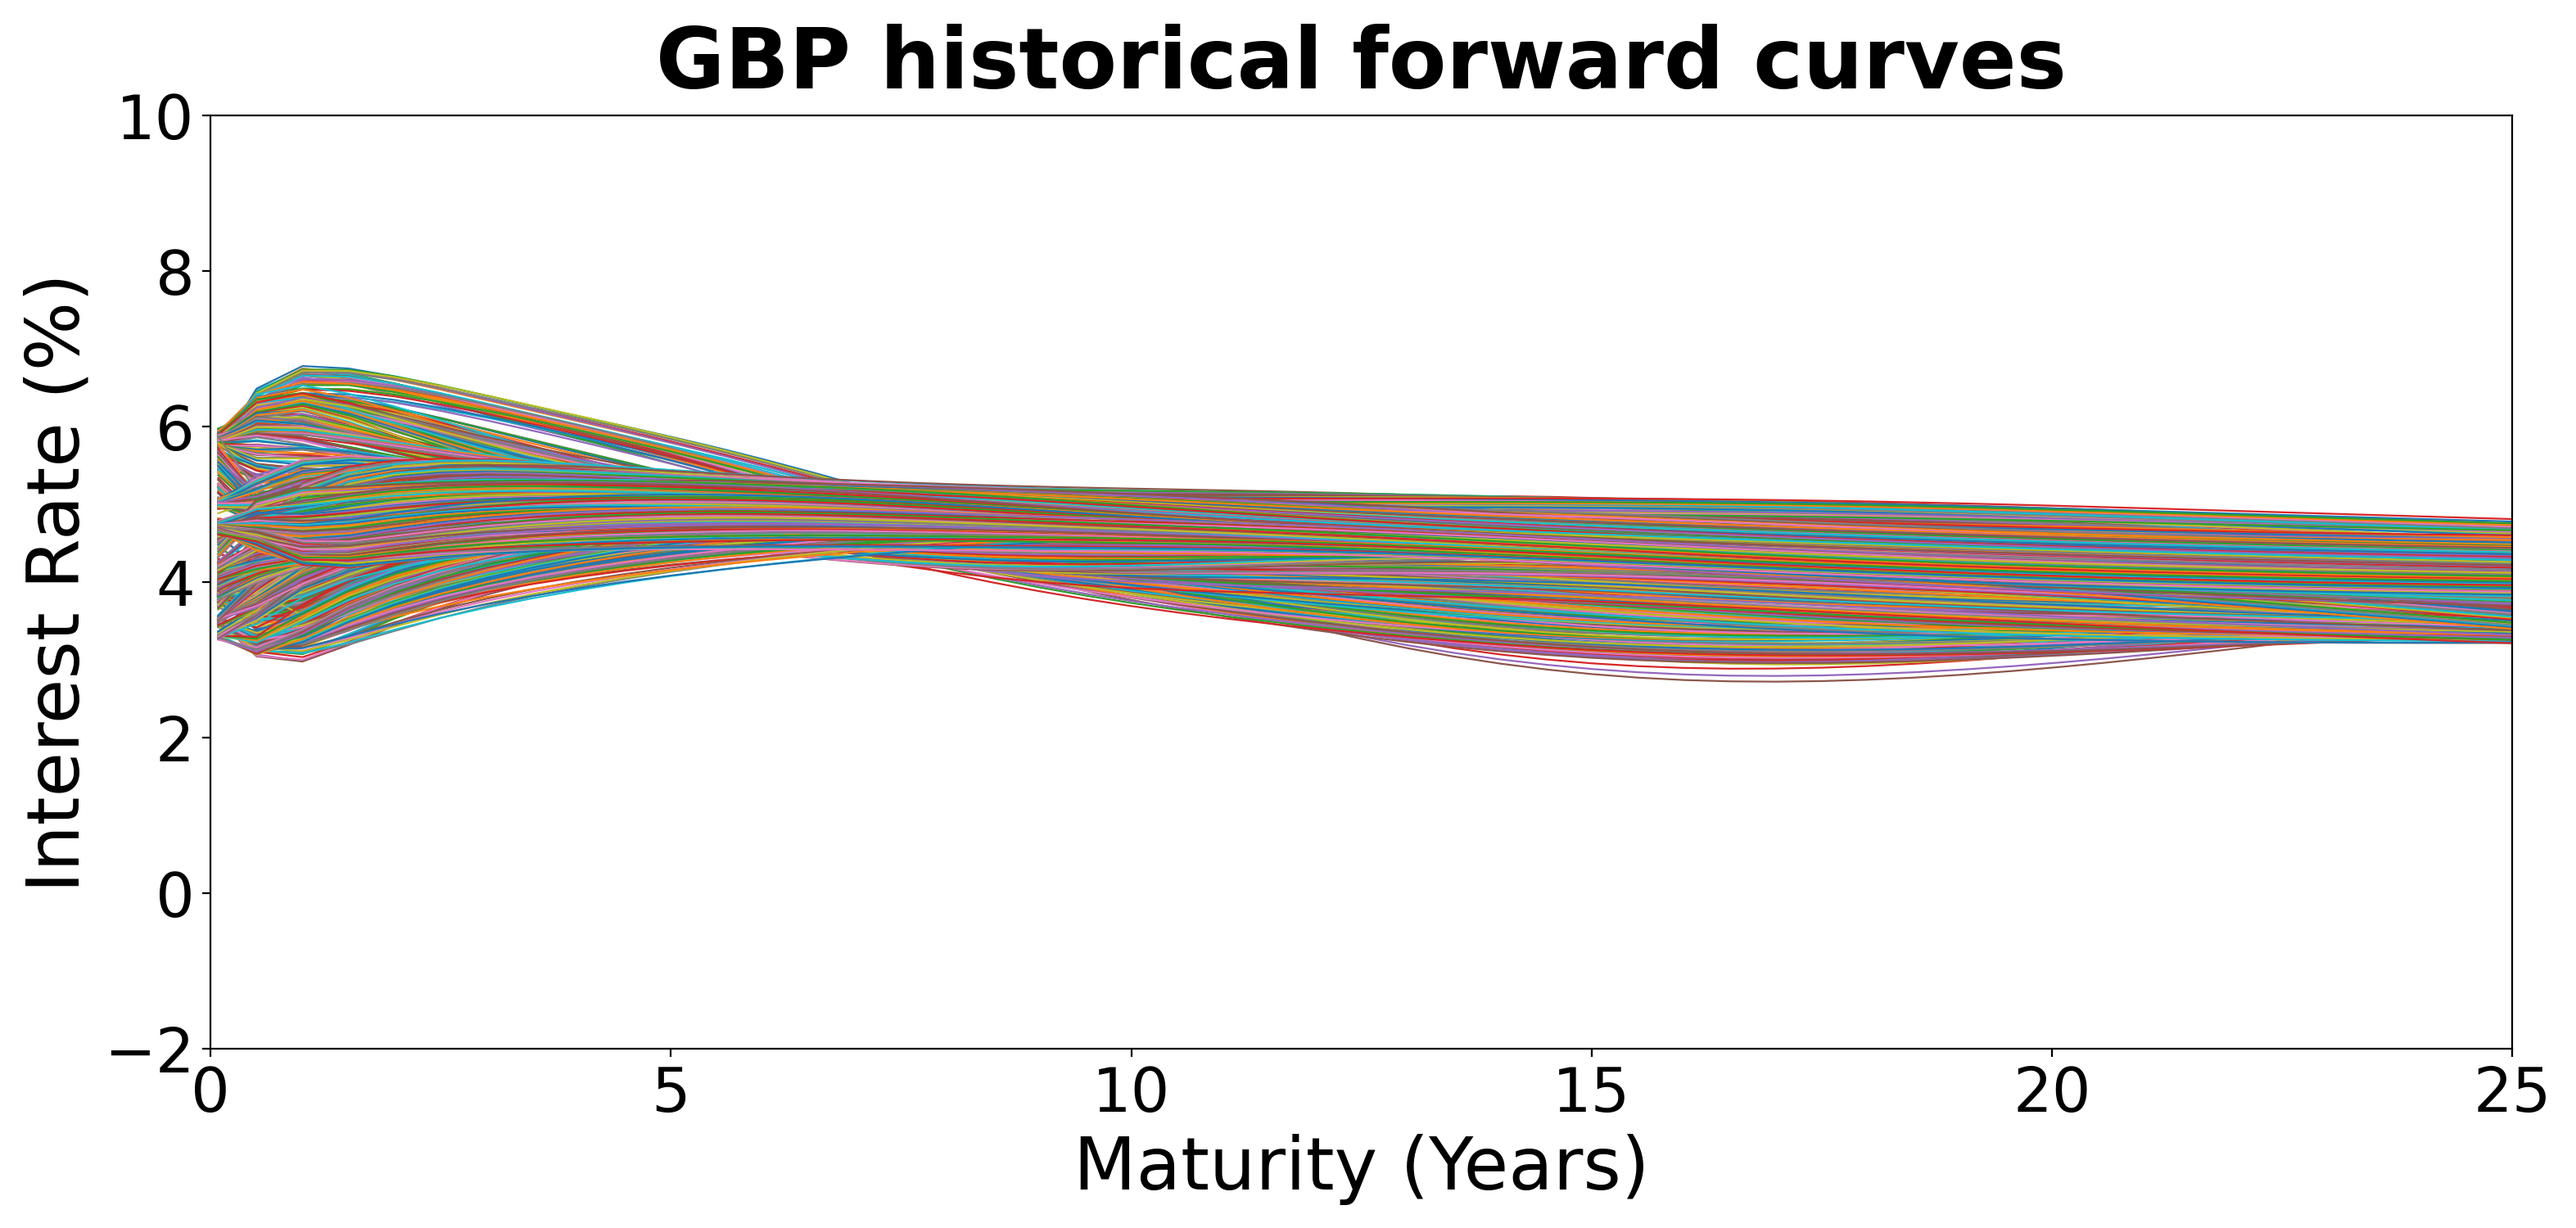
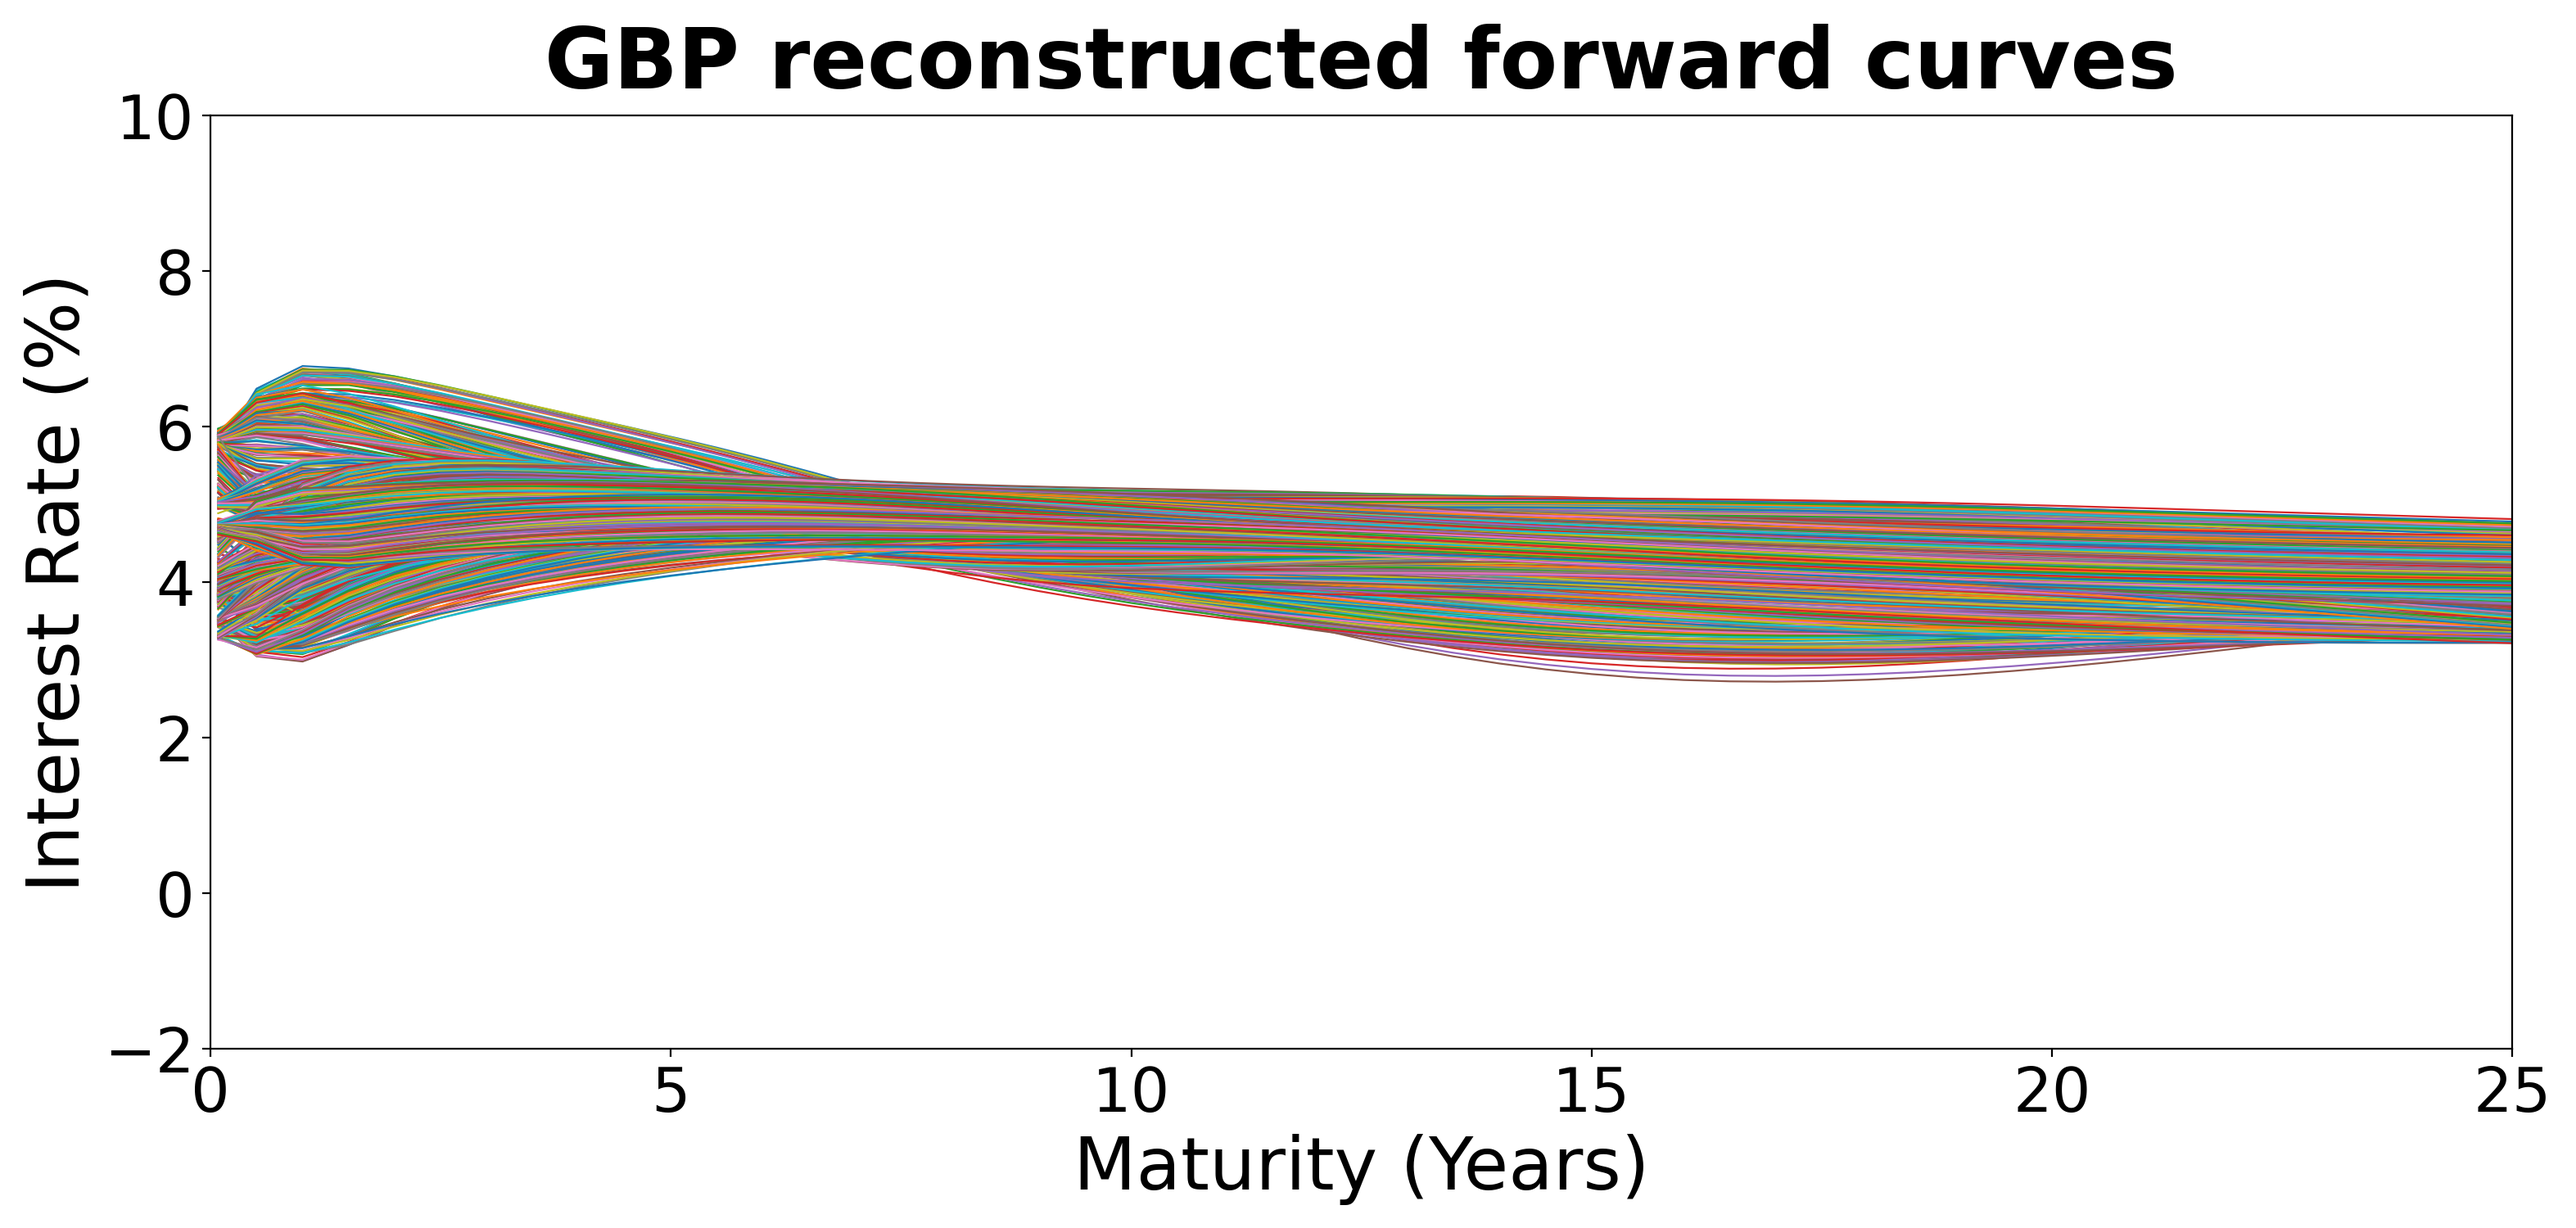
change hist curves labelling

Changed region(s): [[0.1869, 0.0, 0.8411, 0.092]]

diff --git a/Chapter 3/pca/fwd_plot_historical.py b/Chapter 3/pca/fwd_plot_historical.py
@@ -134,7 +134,7 @@ def main():
 
     fwd_curves_plot(
         Tau, fitted_curves,
-        title="GBP historical forward curves",
+        title="GBP reconstructed forward curves",
         save_path="historical_fwd_curves.png",
     )
 
